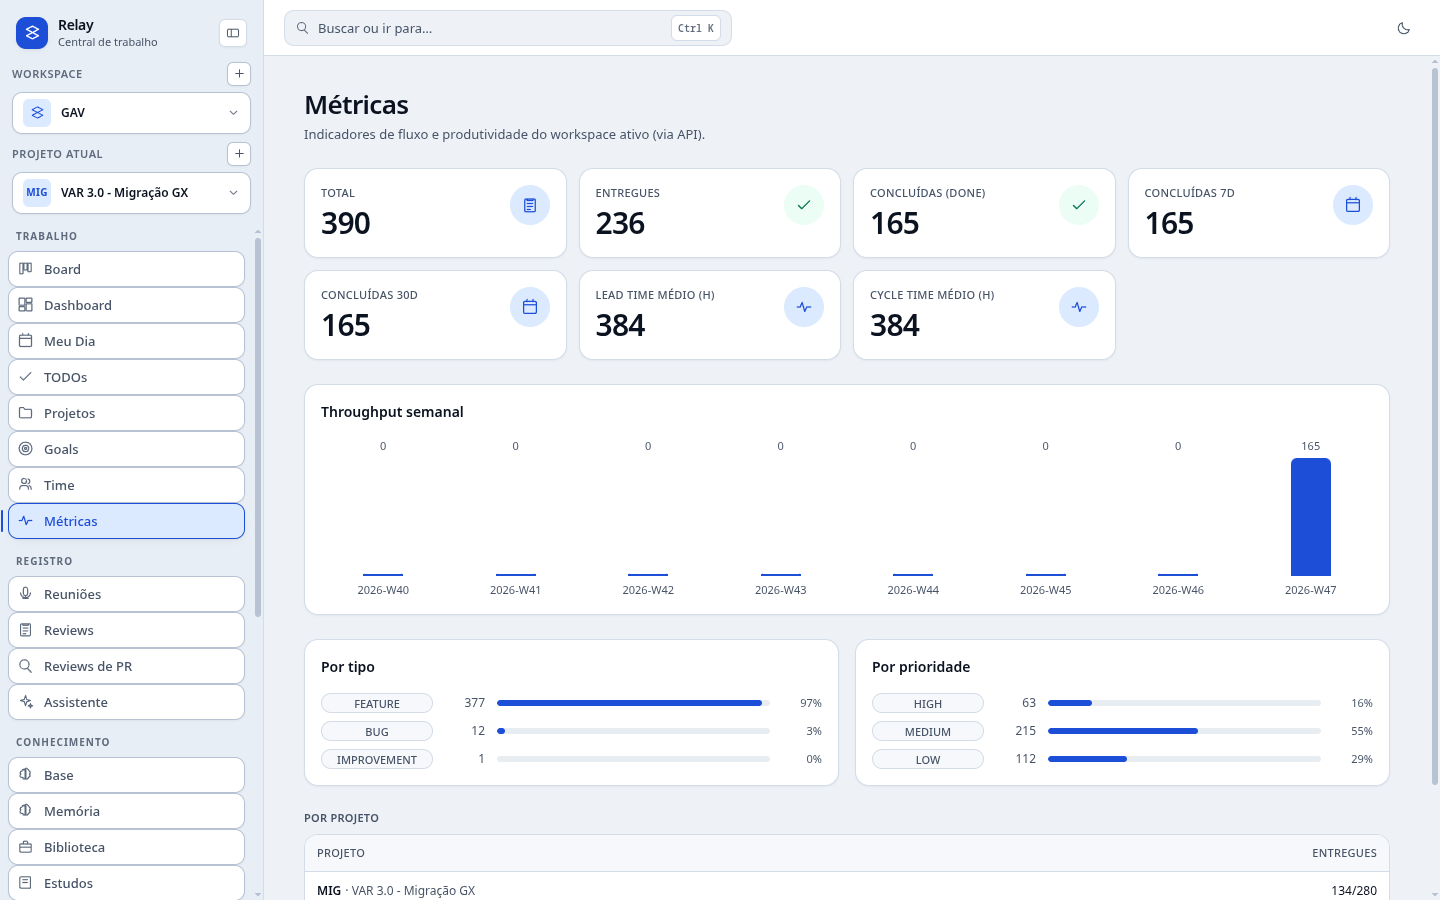
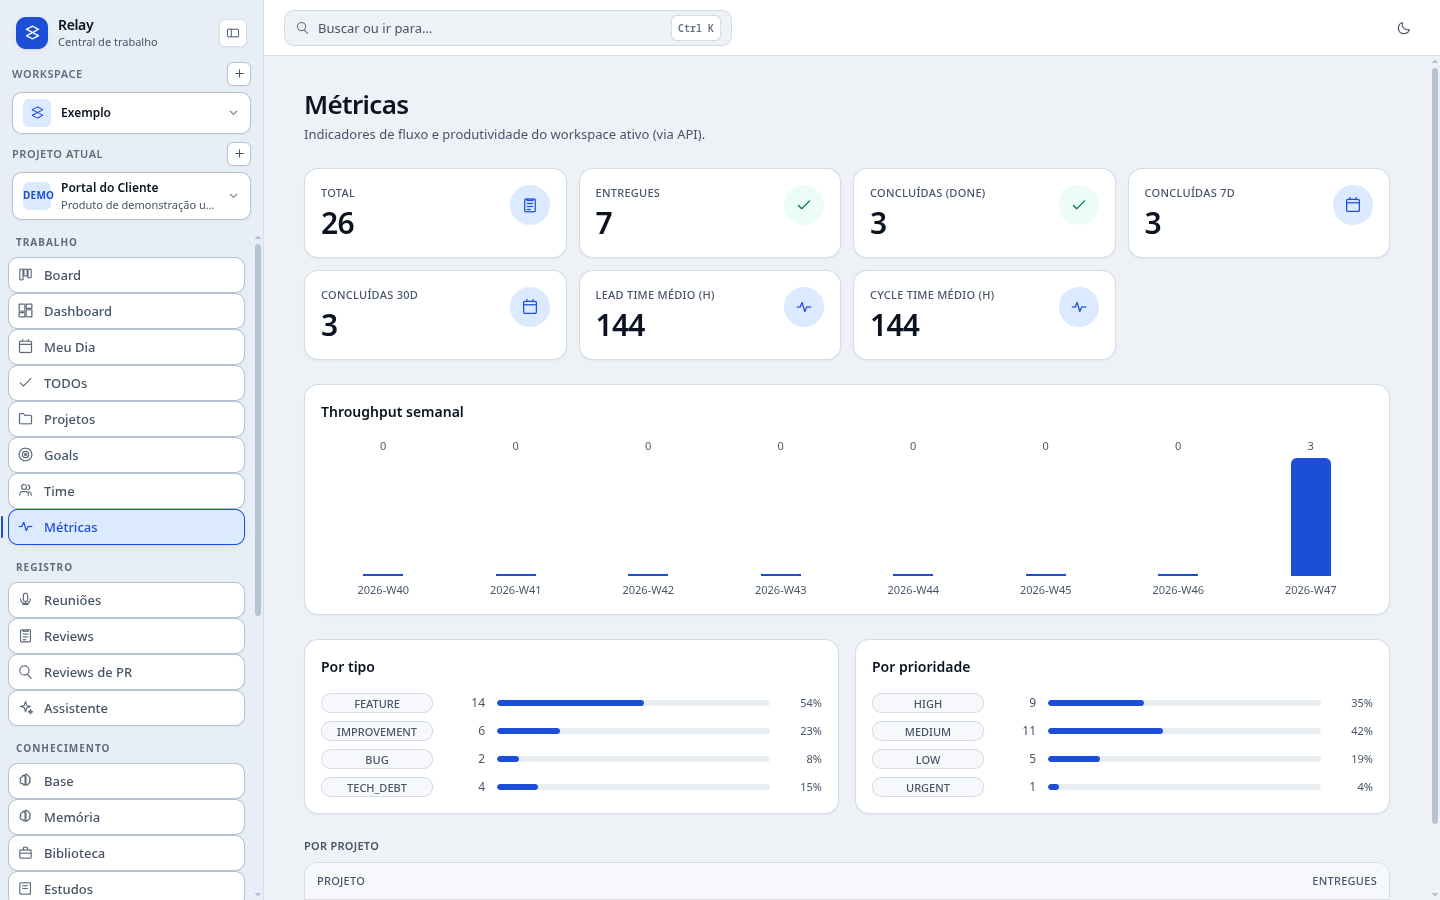
docs(prints): publicar prints do workspace Exemplo
- README/README.en usam o projeto fictício Portal do Cliente (DEMO)
- imagens com ?v=20261126 para furar cache do GitHub
- docs/prints e plano da UI atualizados

diff --git a/docs/prints/README.md b/docs/prints/README.md
@@ -8,8 +8,8 @@ representam mais a UI principal.
 ## Estado atual (26/11/2026)
 
 - Os 5 prints essenciais foram recapturados do app Electron empacotado
-  (1440×900, tema claro, projeto MIG) e já são usados em `README.md` e
-  `README.en.md`.
+  (1440×900, tema claro, **workspace Exemplo / projeto Portal do Cliente — DEMO**)
+  e já são usados em `README.md` e `README.en.md`.
 - A captura reflete o design system v2: menu com **Board primeiro**, itens com
   borda, paleta azul corporativa de alto contraste.
 - O Electron limpa o cache da UI a cada boot; se uma janela antiga continuar
@@ -22,7 +22,7 @@ representam mais a UI principal.
 | Resolução | **1440×900** (janela do app nesse tamanho; sem barras do sistema) |
 | Tema | claro (dark é opcional, sufixo `-dark`) |
 | Formato | PNG otimizado, mesmo nome do arquivo da tabela abaixo |
-| Conteúdo | projeto de demonstração, sem dados reais/sensíveis (nomes, e-mails, tokens) |
+| Conteúdo | **workspace Exemplo**, projeto **Portal do Cliente (DEMO)**; tarefas, pessoas, reunião e review fictícios, sem dados reais/sensíveis |
 | Onde salvar | `docs/prints/` (este diretório) |
 
 Como abrir o app para capturar:
@@ -39,11 +39,11 @@ cd local-client && ./run-web.sh   # http://127.0.0.1:9777/
 
 | # | Arquivo | Tela / rota | Estado que deve exibir |
 |---|---|---|---|
-| 1 | `dashboard.png` | `/dashboard` | KPIs (tarefas, entregues, lead/cycle time), digest do standup, atividade recente e projetos do workspace. Menu com Board primeiro e itens com borda. |
-| 2 | `board.png` | `/board/<projectId>` | Kanban horizontal com filtros, seletor de sprint, colunas com WIP/contagem, cards com tipo/prioridade/labels, selects de sprint/responsável e o botão **Mostrar mais** nas colunas grandes. |
-| 3 | `metricas.png` | `/metricas` | Cards de total, entregues, concluídas (7/30 dias), lead time e cycle time; throughput semanal; distribuição por tipo/prioridade e por projeto. |
-| 4 | `reviews-pr.png` | `/reviews-pr` | Pasta de destino, criação por URL de PR, filtros e tabela de reviews. O print pode estar no estado vazio (“Nenhum review.”); o fluxo completo abre o formulário abaixo da tabela. |
-| 5 | `reunioes.png` | `/reunioes` | Lista de gravações e detalhe com contexto (projeto ou workshop), botões **Transcrever**/**Analisar reunião**, abas Resumo/Transcrição/Seções/Áudio e ações de exportar/arquivar/excluir. |
+| 1 | `dashboard.png` | `/dashboard` | Workspace Exemplo com KPIs (26 tarefas, 7 entregues, lead/cycle de 144h), digest do standup, atividade recente de tarefas fictícias e o projeto Portal do Cliente. Menu com Board primeiro e itens com borda. |
+| 2 | `board.png` | `/board/<projectId>` | Board do projeto Portal do Cliente (DEMO), sprint 12 ativa, colunas To do/Approved/Refinement/Ready for Dev populadas, cards com prioridade, labels, avatar, sprint, responsável e previsão de entrega. |
+| 3 | `metricas.png` | `/metricas` | KPIs do workspace Exemplo (26 tarefas, 7 entregues, 3 concluídas, lead/cycle de 144h), throughput semanal e distribuição por tipo/prioridade. |
+| 4 | `reviews-pr.png` | `/reviews-pr` | Review fictício do PR #128 (`portal/web`, autoria Ana Souza), com veredito “Aprovar com sugestões” e status Rascunho, além dos cards de pasta de destino e novo review. |
+| 5 | `reunioes.png` | `/reunioes` | Duas reuniões fictícias: “Daily de produto — 25/11” (contexto do projeto Portal do Cliente, com resumo e seções) e “Workshop: descoberta de melhorias” (sem projeto). |
 
 ## Checklist antes de publicar
 
@@ -52,6 +52,17 @@ cd local-client && ./run-web.sh   # http://127.0.0.1:9777/
 - [x] Janela em 1440×900, tema claro, sem notificações ou overlays do sistema.
 - [x] READMEs atualizados para exibir as imagens atuais e remover a nota de “capturas pendentes”.
 - [ ] Imagens antigas da GUI Qt removidas de `local-client/docs/screenshots/` (mantidas por histórico).
+
+## Dados de demonstração
+
+Os prints usam o workspace **Exemplo** (criado localmente fora do repositório) e o
+projeto **Portal do Cliente** (`DEMO`). Ele contém 26 tarefas fictícias em 12
+colunas, duas sprints, labels, quatro pessoas, duas reuniões e um review de PR.
+Nenhum dado real do workspace GAV entra nos prints.
+
+Ao terminar a captura, volte o workspace ativo para **GAV** (`POST
+/api/workspaces/active` com `{"id":"gav"}`) e reinicie o app. O workspace Exemplo
+permanece disponível para recapturas futuras.
 
 ## Como recapturar
 

diff --git a/README.md b/README.md
@@ -327,13 +327,13 @@ A API roda em `http://127.0.0.1:9777/api` sem autenticação. Endpoints principa
 
 ## Capturas de tela
 
-Capturas reais do app Electron (shell + web UI), 1440×900, tema claro, projeto MIG (VAR 3.0), em **26/11/2026** — design system v2, menu com Board primeiro, itens com borda e paleta azul corporativa de alto contraste:
+Capturas reais do app Electron (shell + web UI), 1440×900, tema claro, workspace **Exemplo** (projeto fictício **Portal do Cliente**, 26 tarefas), em **26/11/2026** — design system v2, menu com Board primeiro, itens com borda e paleta azul corporativa de alto contraste:
 
-![Dashboard](docs/prints/dashboard.png)
-![Board kanban](docs/prints/board.png)
-![Métricas](docs/prints/metricas.png)
-![Reviews de PR](docs/prints/reviews-pr.png)
-![Reuniões](docs/prints/reunioes.png)
+![Dashboard](docs/prints/dashboard.png?v=20261126)
+![Board kanban](docs/prints/board.png?v=20261126)
+![Métricas](docs/prints/metricas.png?v=20261126)
+![Reviews de PR](docs/prints/reviews-pr.png?v=20261126)
+![Reuniões](docs/prints/reunioes.png?v=20261126)
 
 As capturas antigas da GUI Qt (legado) continuam em `local-client/docs/screenshots/`
 

diff --git a/README.en.md b/README.en.md
@@ -341,13 +341,13 @@ The API runs at `http://127.0.0.1:9777/api` without authentication. Main endpoin
 
 ## Screenshots
 
-Real Electron app screenshots (shell + web UI), 1440×900, light theme, MIG project, captured on **26/11/2026** — design system v2, Board first in the menu, bordered items, high-contrast corporate blue palette:
+Real Electron app screenshots (shell + web UI), 1440×900, light theme, **Exemplo** workspace (fictional **Portal do Cliente** project, 26 tasks), captured on **26/11/2026** — design system v2, Board first in the menu, bordered items, high-contrast corporate blue palette:
 
-![Dashboard](docs/prints/dashboard.png)
-![Board kanban](docs/prints/board.png)
-![Métricas](docs/prints/metricas.png)
-![Reviews de PR](docs/prints/reviews-pr.png)
-![Reuniões](docs/prints/reunioes.png)
+![Dashboard](docs/prints/dashboard.png?v=20261126)
+![Board kanban](docs/prints/board.png?v=20261126)
+![Métricas](docs/prints/metricas.png?v=20261126)
+![Reviews de PR](docs/prints/reviews-pr.png?v=20261126)
+![Reuniões](docs/prints/reunioes.png?v=20261126)
 
 Legacy Qt GUI screenshots remain in `local-client/docs/screenshots/`
 

diff --git a/docs/ui-rebuild-plan.md b/docs/ui-rebuild-plan.md
@@ -233,4 +233,5 @@ Depois da entrega inicial, quatro ajustes fecharam a experiência do Electron:
   `linux-unpacked` foram recompilados com o bundle `index-DTUqh1-N.js`.
 
 Prints oficiais recapturados com esse estado em `docs/prints/` (dashboard, board,
-métricas, reuniões e reviews de PR).
+métricas, reuniões e reviews de PR), usando o workspace de demonstração
+**Exemplo** (projeto **Portal do Cliente — DEMO**) para não expor dados do GAV.
